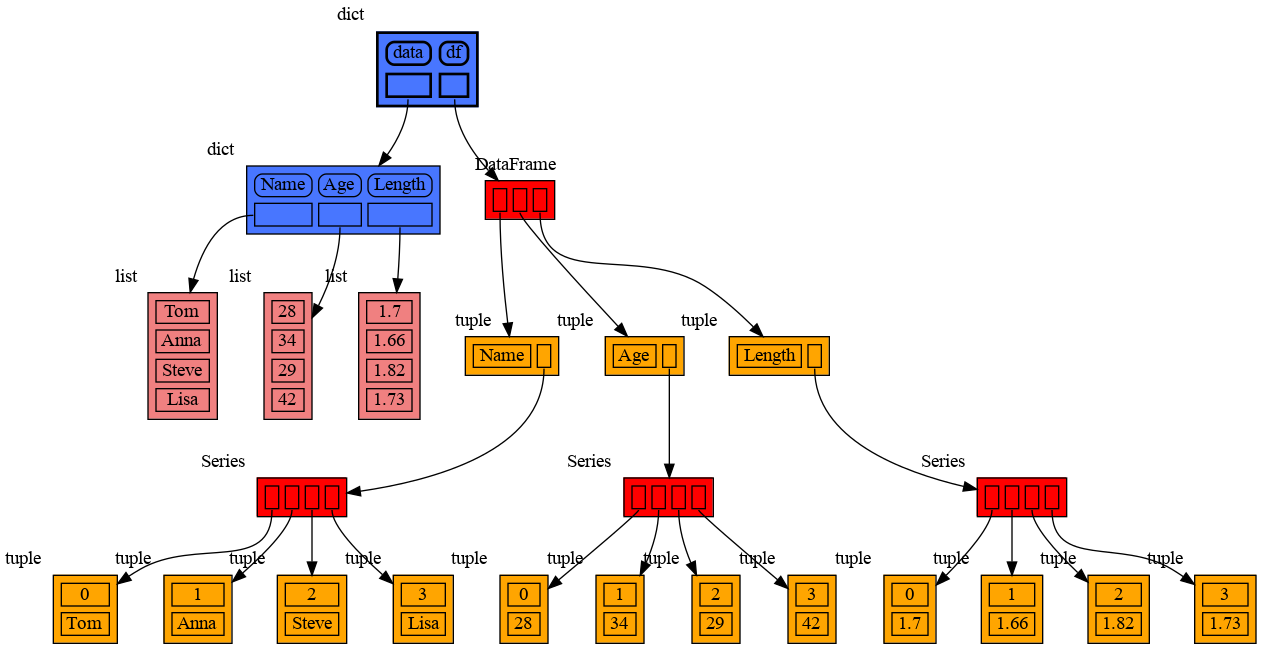
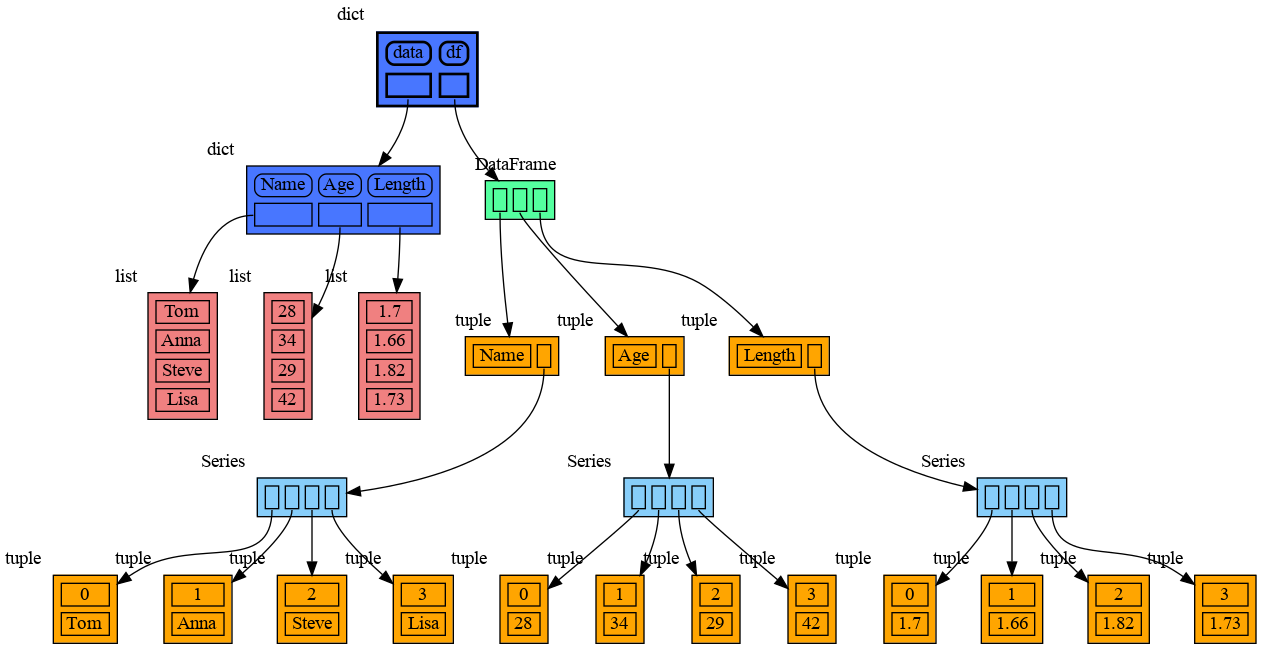
adding category_custom colors

diff --git a/memory_graph/graphviz_nodes.py b/memory_graph/graphviz_nodes.py
@@ -10,18 +10,18 @@ linear_all_ref_layout_vertical=False
 key_value_layout_vertical=True
 key_value_any_ref_layout_vertical=False
 key_value_all_ref_layout_vertical=False
-category_to_color_map={
-    "NoneType":"gray", "type":"lightgreen", "bool":"pink", "int":"green", "float":"yellow", "str":"cyan", # fundamental types
-    "tuple":"orange", "list":"lightcoral", "set":"darkolivegreen1", "frozenset":"darkolivegreen3", "dict":"royalblue1", "mappingproxy":"royalblue2", # containers
-    "category_class":"orchid" # catergories
-}
-uncategorized_color="red"
 padding=0
 spacing=5
 join_references_count=3
 join_circle_size="0.4"
 join_circle_minlen="2"
 max_string_length=70
+category_to_color_map={
+    "NoneType":"gray", "type":"lightgreen", "bool":"pink", "int":"green", "float":"yellow", "str":"cyan", # fundamental types
+    "tuple":"orange", "list":"lightcoral", "set":"darkolivegreen1", "frozenset":"darkolivegreen3", "dict":"royalblue1", "mappingproxy":"royalblue2", # containers
+    "category_class":"orchid", "category_custom":"seagreen1" # catergories
+}
+uncategorized_color="red"
 graph_attr={}
 node_attr={'shape':'plaintext'}
 edge_attr={}

diff --git a/images/example4.py b/images/example4.py
@@ -6,9 +6,10 @@ data = {'Name':['Tom', 'Anna', 'Steve', 'Lisa'],
 df = pd.DataFrame(data)
 
 import memory_graph
-memory_graph.rewrite.custom_accessor_functions[pd.DataFrame]=lambda d: list(d.iteritems())
-memory_graph.rewrite.custom_accessor_functions[pd.Series]=lambda d: list(d.items())
+memory_graph.rewrite.custom_accessor_functions[pd.DataFrame] = lambda d: list(d.iteritems())
+memory_graph.rewrite.custom_accessor_functions[pd.Series] = lambda d: list(d.items())
 memory_graph.rewrite_to_node.reduce_reference_parents.add("DataFrame")
 memory_graph.rewrite_to_node.reduce_reference_parents.add("Series")
+memory_graph.graphviz_nodes.category_to_color_map['Series'] = 'lightskyblue'
 
 memory_graph.render( locals(), 'example4.png' )

diff --git a/README.md b/README.md
@@ -41,8 +41,10 @@ memory_graph.render( locals(), "my_debug_graph.pdf" )
 
 ## Larger Example ##
 
-This larger example shows objects that share a class (static) variable and
-also shows we can handle recursive references just fine.
+This larger example shows objects that share a class (static) variable
+and also shows we can handle recursive references although the graph
+layout might be less pretty (trust me there are good reasons for
+this).
 
 ```
 import memory_graph
@@ -67,7 +69,6 @@ my_list.append(data) # recursive reference
 memory_graph.show( locals() )
 ```
 ![image](https://raw.githubusercontent.com/bterwijn/memory_graph/main/images/example2.png)
-
 
 
 ## Config ##
@@ -145,7 +146,7 @@ Configure what nodes are created based on reading the given data structure:
 - ***memory_graph.rewrite.dict_ignore_dunder_keys*** : bool
   - determines if we ignore dunder keys ('`__example`') in dict_types
 - ***memory_graph.rewrite.custom_accessor_functions*** : dict
-  - custom accessor function for various types
+  - custom accessor functions to defined how to read various types
 
 
 ### Config Examples ###
@@ -180,10 +181,11 @@ data = {'Name':['Tom', 'Anna', 'Steve', 'Lisa'],
 df = pd.DataFrame(data)
 
 import memory_graph
-memory_graph.rewrite.custom_accessor_functions[pd.DataFrame]=lambda d: list(d.iteritems())
-memory_graph.rewrite.custom_accessor_functions[pd.Series]=lambda d: list(d.items())
+memory_graph.rewrite.custom_accessor_functions[pd.DataFrame] = lambda d: list(d.iteritems())
+memory_graph.rewrite.custom_accessor_functions[pd.Series] = lambda d: list(d.items())
 memory_graph.rewrite_to_node.reduce_reference_parents.add("DataFrame")
 memory_graph.rewrite_to_node.reduce_reference_parents.add("Series")
+memory_graph.graphviz_nodes.category_to_color_map['Series'] = 'lightskyblue'
 
 memory_graph.show( locals() )
 ```
@@ -206,6 +208,9 @@ Install using pip:
 ```
 pip install memory-graph
 ```
+
+additionally [Graphviz](https://graphviz.org/) needs to be installed.
+
 
 ## Author ##
 Bas Terwijn
